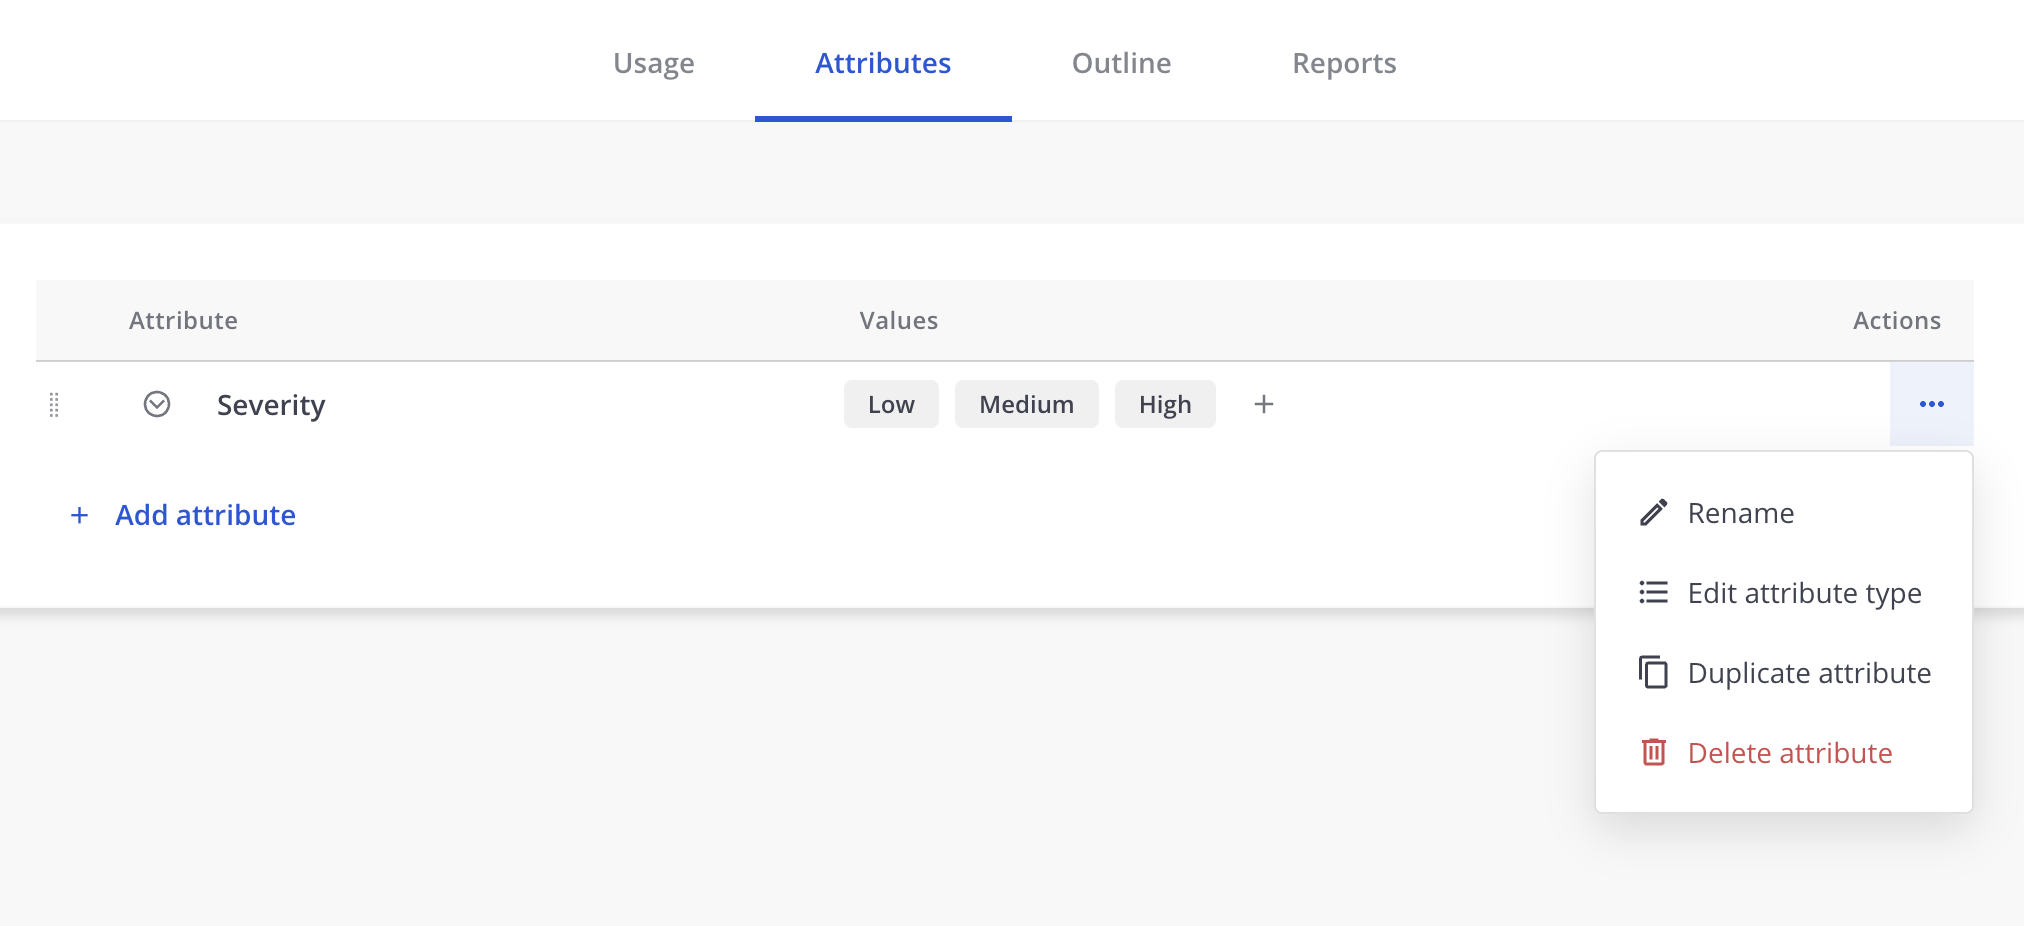
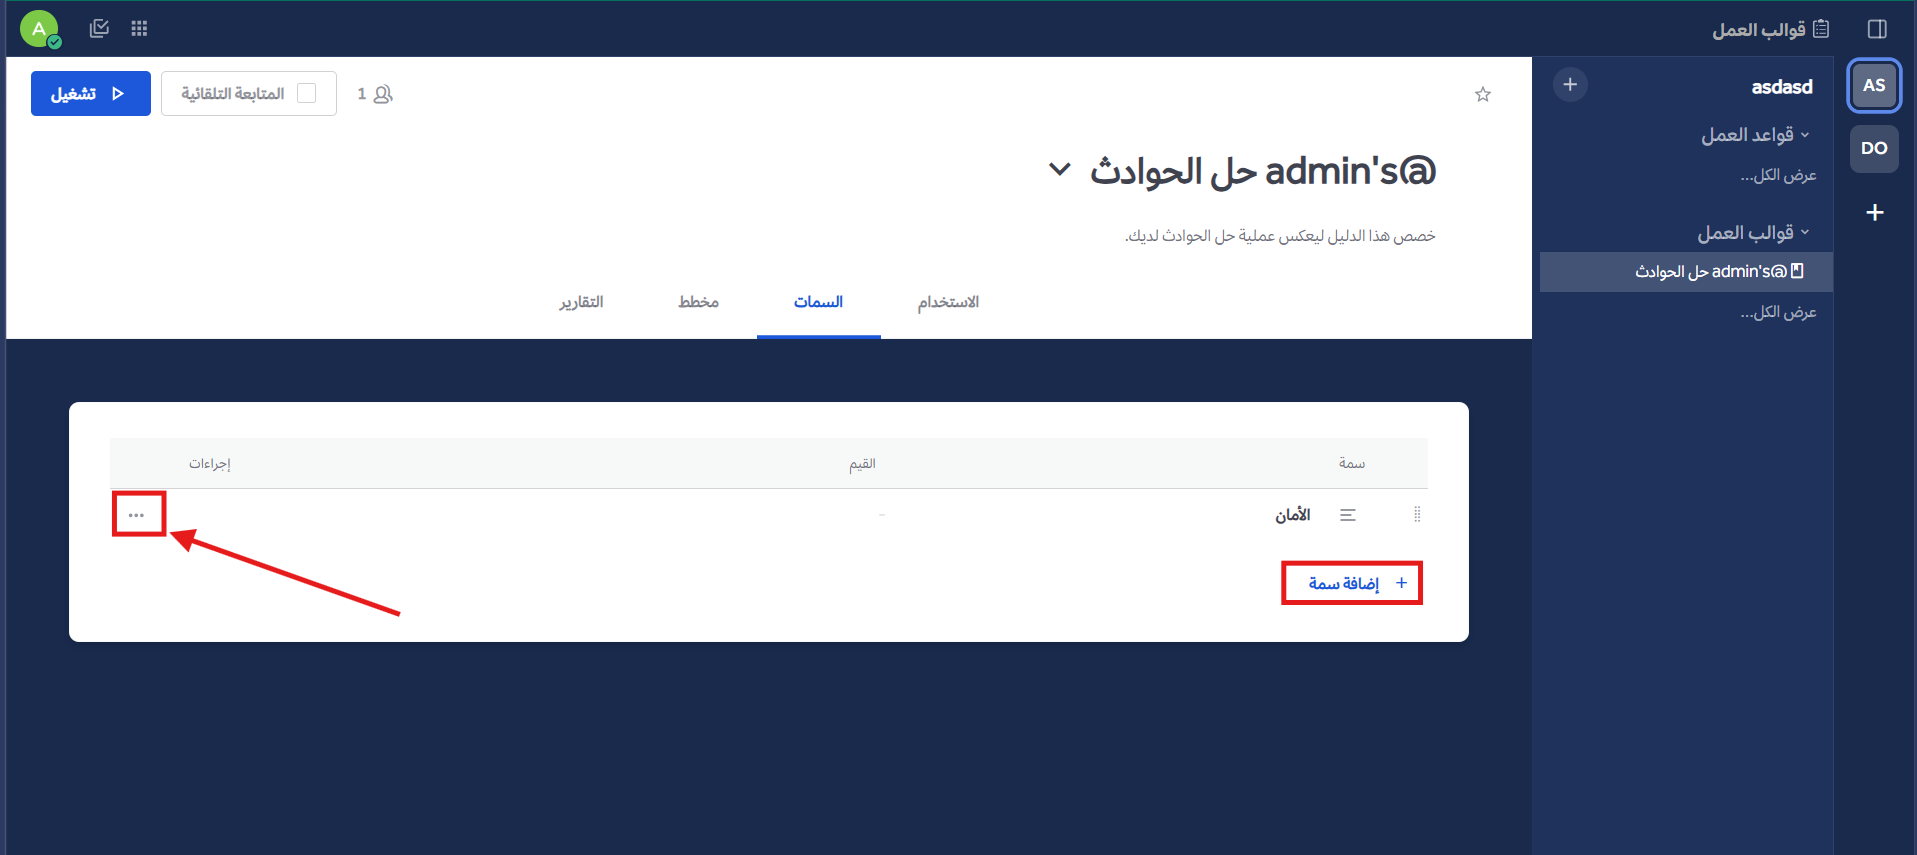
fix and update: resolve merge conflicts and update Astro config - Remove conflicts with the remote branch. - Update some images in workflow-automation folder. - override the style of asides. -remove github social link from the header.

diff --git a/src/styles/asides.css b/src/styles/asides.css
@@ -1,0 +1,90 @@
+.starlight-aside {
+    padding: 1rem;
+    border: 0px solid var(--sl-color-asides-border);
+    border-radius: 0.5rem;
+    margin-block: 1.5rem;
+}
+
+/* Note Variant */
+.starlight-aside--note {
+    --sl-color-asides-text-accent: #0086C9;
+    --sl-color-asides-border: #0086C9;
+    background-color: #EFF8FF;
+}
+
+:root[data-theme='dark'] .starlight-aside--note {
+    --sl-color-asides-text-accent: #B2DDFF;
+    --sl-color-asides-border: #0086C9;
+    background-color: #102A56;
+}
+
+/* Tip Variant */
+.starlight-aside--tip {
+    --sl-color-asides-text-accent: #067647;
+    --sl-color-asides-border: #12B76A;
+    background-color: #ECFDF3;
+}
+
+:root[data-theme='dark'] .starlight-aside--tip {
+    --sl-color-asides-text-accent: #6CE9A6;
+    --sl-color-asides-border: #12B76A;
+    background-color: #053321;
+}
+
+/* Caution Variant */
+.starlight-aside--caution {
+    --sl-color-asides-text-accent: #B54708;
+    --sl-color-asides-border: #F79009;
+    background-color: #FFFAEB;
+}
+
+:root[data-theme='dark'] .starlight-aside--caution {
+    --sl-color-asides-text-accent: #FEC84B;
+    --sl-color-asides-border: #F79009;
+    background-color: #4E2E0A;
+}
+
+/* Danger Variant */
+.starlight-aside--danger {
+    --sl-color-asides-text-accent: #B42318;
+    --sl-color-asides-border: #F04438;
+    background-color: #FEF3F2;
+}
+
+:root[data-theme='dark'] .starlight-aside--danger {
+    --sl-color-asides-text-accent: #FDA29B;
+    --sl-color-asides-border: #F04438;
+    background-color: #55160C;
+}
+
+.starlight-aside__title {
+    display: flex;
+    gap: 0.5rem;
+    align-items: center;
+    font-size: var(--sl-text-h5);
+    font-weight: 700;
+    line-height: var(--sl-line-height-headings);
+    color: var(--sl-color-asides-text-accent);
+    margin-bottom: 0.5rem;
+}
+
+.starlight-aside__icon {
+    font-size: 1.25em;
+    width: 1em;
+    height: 1em;
+    color: var(--sl-color-asides-text-accent);
+}
+
+.starlight-aside__content {
+    color: var(--sl-color-gray-2);
+}
+
+:root[data-theme='dark'] .starlight-aside__content {
+    color: var(--sl-color-gray-1);
+}
+
+.starlight-aside__content a {
+    color: var(--sl-color-asides-text-accent);
+    text-decoration: underline;
+    font-weight: 500;
+}